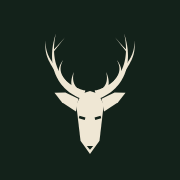
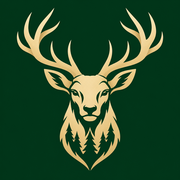
Nova ikona aplikacije (jelen s rogovljem i šumom)
Ikona koju je dostavio vlasnik, u veličinama za iOS (180 px), Android
(192/512 px i maskable s rubom) i favicon; isti znak je logo u aplikaciji.

Claude-Session: https://claude.ai/code/session_01LjLEpdkPXX33iCHwWiZMXM

Changed region(s): [[0.0833, 0.0278, 0.9167, 0.9444]]

diff --git a/lovacki-dnevnik/app/manifest.ts b/lovacki-dnevnik/app/manifest.ts
@@ -7,14 +7,13 @@ export default function manifest(): MetadataRoute.Manifest {
     description: "Evidencija izlazaka, odstrela, lovišta i dozvola",
     start_url: "/",
     display: "standalone",
-    background_color: "#13221a",
+    background_color: "#023519",
     theme_color: "#0b100c",
     lang: "hr",
     icons: [
       { src: "/icons/icon-192.png", sizes: "192x192", type: "image/png" },
       { src: "/icons/icon-512.png", sizes: "512x512", type: "image/png" },
-      { src: "/icons/icon-512.png", sizes: "512x512", type: "image/png", purpose: "maskable" },
-      { src: "/icon.svg", sizes: "any", type: "image/svg+xml" },
+      { src: "/icons/maskable-512.png", sizes: "512x512", type: "image/png", purpose: "maskable" },
     ],
   };
 }

diff --git a/lovacki-dnevnik/components/Navigacija.tsx b/lovacki-dnevnik/components/Navigacija.tsx
@@ -198,7 +198,7 @@ export function Znak({ velicina = 40 }: { velicina?: number }) {
   return (
     // eslint-disable-next-line @next/next/no-img-element
     <img
-      src="/icon.svg"
+      src="/icons/icon-192.png"
       alt=""
       width={velicina}
       height={velicina}
